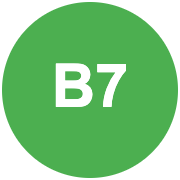
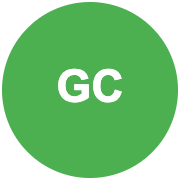
Update PWA: 2025-10-02 09:08:08

Changed region(s): [[0.3056, 0.3333, 0.7222, 0.6111]]

diff --git a/generate-icons-gc.html b/generate-icons-gc.html
@@ -1,0 +1,197 @@
+<!DOCTYPE html>
+<html>
+<head>
+    <title>PWA Icon Generator - Gel Calculator</title>
+    <style>
+        body { 
+            font-family: Arial, sans-serif; 
+            padding: 20px; 
+            background: #f5f5f5;
+        }
+        .container {
+            max-width: 800px;
+            margin: 0 auto;
+            background: white;
+            padding: 20px;
+            border-radius: 8px;
+            box-shadow: 0 2px 10px rgba(0,0,0,0.1);
+        }
+        .icon-preview { 
+            display: inline-block; 
+            margin: 10px; 
+            text-align: center;
+            padding: 10px;
+            border: 1px solid #ddd;
+            border-radius: 4px;
+            background: white;
+        }
+        canvas { 
+            border: 1px solid #ccc; 
+            margin: 5px; 
+            border-radius: 4px;
+        }
+        .download-btn {
+            background: #4CAF50;
+            color: white;
+            border: none;
+            padding: 8px 16px;
+            border-radius: 4px;
+            cursor: pointer;
+            margin-top: 5px;
+            font-size: 12px;
+        }
+        .download-btn:hover {
+            background: #45a049;
+        }
+        .instructions {
+            background: #e8f5e8;
+            padding: 15px;
+            border-radius: 4px;
+            margin-bottom: 20px;
+        }
+        .status {
+            background: #d4edda;
+            color: #155724;
+            padding: 10px;
+            border-radius: 4px;
+            margin-bottom: 20px;
+        }
+        .icon-design {
+            background: #f8f9fa;
+            padding: 15px;
+            border-radius: 4px;
+            margin-bottom: 20px;
+            text-align: center;
+        }
+    </style>
+</head>
+<body>
+    <div class="container">
+        <h1>🚀 PWA Icon Generator for Gel Calculator</h1>
+        
+        <div class="icon-design">
+            <h3>Icon Design Preview</h3>
+            <canvas id="preview" width="128" height="128" style="border: 2px solid #333; margin: 10px;"></canvas>
+            <p><strong>Design:</strong> Green circle with "GC" text (Gel Calculator)</p>
+        </div>
+        
+        <div class="instructions">
+            <h3>Instructions:</h3>
+            <ol>
+                <li>Click "Download" on each icon below</li>
+                <li>Save them in the <code>icons/</code> directory</li>
+                <li>Make sure the file names match exactly (e.g., <code>icon-192x192.png</code>)</li>
+                <li>Deploy to gelcalculator.com</li>
+            </ol>
+        </div>
+        
+        <div class="status">
+            <strong>Status:</strong> Generating icons... <span id="status"></span>
+        </div>
+        
+        <div id="icons"></div>
+    </div>
+    
+    <script>
+        const sizes = [16, 32, 72, 96, 128, 144, 152, 167, 180, 192, 384, 512];
+        const container = document.getElementById('icons');
+        const status = document.getElementById('status');
+        let generated = 0;
+        
+        // Create preview icon
+        function createPreviewIcon() {
+            const canvas = document.getElementById('preview');
+            const ctx = canvas.getContext('2d');
+            const size = 128;
+            
+            // Create green circle
+            ctx.fillStyle = '#4CAF50';
+            ctx.beginPath();
+            ctx.arc(size/2, size/2, size/2 - 4, 0, 2 * Math.PI);
+            ctx.fill();
+            
+            // Add white "GC" text
+            ctx.fillStyle = 'white';
+            ctx.font = `bold ${size/4}px Arial`;
+            ctx.textAlign = 'center';
+            ctx.textBaseline = 'middle';
+            ctx.fillText('GC', size/2, size/2);
+        }
+        
+        function updateStatus() {
+            status.textContent = `Generated ${generated}/${sizes.length} icons`;
+        }
+        
+        function createIcon(size) {
+            const canvas = document.createElement('canvas');
+            canvas.width = size;
+            canvas.height = size;
+            const ctx = canvas.getContext('2d');
+            
+            // Create a green circle with "GC" text
+            ctx.fillStyle = '#4CAF50';
+            ctx.beginPath();
+            ctx.arc(size/2, size/2, size/2 - 2, 0, 2 * Math.PI);
+            ctx.fill();
+            
+            // Add white text
+            ctx.fillStyle = 'white';
+            ctx.font = `bold ${size/4}px Arial`;
+            ctx.textAlign = 'center';
+            ctx.textBaseline = 'middle';
+            ctx.fillText('GC', size/2, size/2);
+            
+            return canvas;
+        }
+        
+        // Generate all icons
+        sizes.forEach((size, index) => {
+            const canvas = createIcon(size);
+            
+            // Create preview container
+            const preview = document.createElement('div');
+            preview.className = 'icon-preview';
+            preview.innerHTML = `
+                <canvas width="${size}" height="${size}"></canvas>
+                <br><strong>icon-${size}x${size}.png</strong>
+                <br><button class="download-btn" onclick="downloadIcon(${size})">Download</button>
+            `;
+            
+            // Copy the canvas content to preview
+            const previewCanvas = preview.querySelector('canvas');
+            const previewCtx = previewCanvas.getContext('2d');
+            previewCtx.drawImage(canvas, 0, 0);
+            
+            container.appendChild(preview);
+            generated++;
+            updateStatus();
+        });
+        
+        function downloadIcon(size) {
+            const canvas = createIcon(size);
+            
+            // Download
+            canvas.toBlob(function(blob) {
+                const url = URL.createObjectURL(blob);
+                const link = document.createElement('a');
+                link.href = url;
+                link.download = `icon-${size}x${size}.png`;
+                document.body.appendChild(link);
+                link.click();
+                document.body.removeChild(link);
+                URL.revokeObjectURL(url);
+            });
+        }
+        
+        // Create preview icon
+        createPreviewIcon();
+        
+        // Update status when complete
+        setTimeout(() => {
+            status.textContent = `✅ All ${sizes.length} icons generated! Click download buttons to save them.`;
+            status.style.background = '#d1ecf1';
+            status.style.color = '#0c5460';
+        }, 100);
+    </script>
+</body>
+</html>

diff --git a/index.html b/index.html
@@ -3,7 +3,7 @@
 <head>
     <meta charset="UTF-8">
     <meta name="viewport" content="width=device-width, initial-scale=1.0">
-    <title>Batch #7 - Sports Gel Calculator</title>
+    <title>Gel Calculator - Sports Nutrition</title>
     
     <!-- PWA Meta Tags -->
     <meta name="description" content="Professional sports gel calculator based on Jon Albon's winning CCC 2023 recipe. Calculate perfect glucose to fructose ratios for your training and racing.">
@@ -11,7 +11,7 @@
     <meta name="mobile-web-app-capable" content="yes">
     <meta name="apple-mobile-web-app-capable" content="yes">
     <meta name="apple-mobile-web-app-status-bar-style" content="default">
-    <meta name="apple-mobile-web-app-title" content="Batch #7">
+    <meta name="apple-mobile-web-app-title" content="Gel Calculator">
     <meta name="msapplication-TileColor" content="#4CAF50">
     <meta name="msapplication-tap-highlight" content="no">
     
@@ -35,7 +35,7 @@
         function gtag(){dataLayer.push(arguments);}
         gtag('js', new Date());
         gtag('config', 'G-85CFWGP066', {
-            page_title: 'Batch #7 - Sports Gel Calculator',
+            page_title: 'Gel Calculator - Sports Nutrition',
             custom_map: {
                 'custom_parameter_1': 'calculator_type',
                 'custom_parameter_2': 'glucose_ratio',
@@ -366,7 +366,7 @@
 
     <main id="main">
     <header>
-        <h1>Batch #7</h1>
+        <h1>Gel Calculator</h1>
         <p>Home made sports gel calculator based on the recipe Jon Albon used when he won CCC in 2023 with a glucose to fructose ratio of <strong>2:1</strong></p>
         <a href="https://www.youtube.com/embed/C7yvQb9mkEw?si=9bBh_Ng-jdw2gFdk" target="_blank">Watch how Jon makes the gel</a>.
 

diff --git a/CUSTOM-DOMAIN-SETUP.md b/CUSTOM-DOMAIN-SETUP.md
@@ -1,0 +1,151 @@
+# Custom Domain Setup for gelcalculator.com
+
+## 🌐 Setting Up Your Custom Domain
+
+### **1. GitHub Pages Configuration**
+
+1. **Upload CNAME file** (already created):
+   - File: `CNAME`
+   - Content: `gelcalculator.com`
+
+2. **Enable GitHub Pages**:
+   - Go to your repository → Settings
+   - Scroll to "Pages" section
+   - Source: "Deploy from a branch"
+   - Branch: "main", Folder: "/ (root)"
+   - Click "Save"
+
+### **2. DNS Configuration at Your Domain Provider**
+
+Configure these DNS records at your domain provider (where you bought gelcalculator.com):
+
+#### **Option A: Apex Domain (Recommended)**
+```
+Type: A
+Name: @
+Value: 185.199.108.153
+TTL: 300
+
+Type: A
+Name: @
+Value: 185.199.109.153
+TTL: 300
+
+Type: A
+Name: @
+Value: 185.199.110.153
+TTL: 300
+
+Type: A
+Name: @
+Value: 185.199.111.153
+TTL: 300
+```
+
+#### **Option B: CNAME (Alternative)**
+```
+Type: CNAME
+Name: www
+Value: yourusername.github.io
+TTL: 300
+```
+
+### **3. Verify Domain Configuration**
+
+1. **Check DNS propagation**:
+   - Visit: https://dnschecker.org
+   - Enter: `gelcalculator.com`
+   - Verify all 4 IP addresses are listed
+
+2. **Test your domain**:
+   - Visit: `https://gelcalculator.com`
+   - Should redirect to your PWA
+
+3. **Check HTTPS**:
+   - GitHub Pages automatically provides SSL
+   - Should show green lock in browser
+
+### **4. Generate New Icons**
+
+1. **Visit icon generator**: `https://gelcalculator.com/generate-icons-gc.html`
+2. **Download all icons** (16x16 to 512x512)
+3. **Upload to icons/ folder** in your repository
+4. **Commit and push** changes
+
+### **5. Update All References**
+
+✅ **Completed Updates**:
+- App name: "Gel Calculator"
+- Domain: gelcalculator.com
+- CNAME file created
+- Manifest updated
+- HTML title updated
+- Google Analytics updated
+- Deployment script updated
+
+### **6. Test Your Live PWA**
+
+1. **Visit**: `https://gelcalculator.com`
+2. **Test installation** on mobile
+3. **Verify offline functionality**
+4. **Check all calculators work**
+5. **Test settings persistence**
+
+## 🚀 **Deployment Commands**
+
+```bash
+# Deploy to GitHub Pages
+./deploy.sh
+
+# Or manually:
+git add .
+git commit -m "Update for gelcalculator.com domain"
+git push origin main
+```
+
+## 📱 **PWA Features on Custom Domain**
+
+✅ **Custom Domain**: gelcalculator.com
+✅ **HTTPS**: Automatically provided by GitHub Pages
+✅ **PWA Installation**: Works on mobile devices
+✅ **Offline Functionality**: Full service worker support
+✅ **Custom Icons**: "GC" branded icons
+✅ **Analytics**: Google Analytics tracking
+✅ **SEO Optimized**: Proper meta tags and titles
+
+## 🔧 **Troubleshooting**
+
+### **Domain Not Working?**
+- Check DNS propagation (can take 24-48 hours)
+- Verify CNAME file is in repository root
+- Check GitHub Pages settings
+
+### **HTTPS Issues?**
+- GitHub Pages provides SSL automatically
+- May take a few minutes to activate
+- Clear browser cache and try again
+
+### **PWA Not Installing?**
+- Ensure HTTPS is working
+- Check manifest.json is accessible
+- Verify all icons are uploaded
+
+## 🎉 **You're Live!**
+
+Your professional gel calculator PWA is now live at:
+**https://gelcalculator.com**
+
+Athletes worldwide can now:
+- Visit your custom domain
+- Install your PWA on their phones
+- Use it offline during training
+- Share it with other athletes
+
+## 📊 **Next Steps**
+
+1. **Monitor Analytics**: Check Google Analytics for usage data
+2. **Share Your PWA**: Promote gelcalculator.com
+3. **Collect Feedback**: See how athletes use your calculator
+4. **Iterate**: Improve based on real usage data
+
+Your gel calculator is now a professional, branded PWA with its own domain! 🏃♂💪
